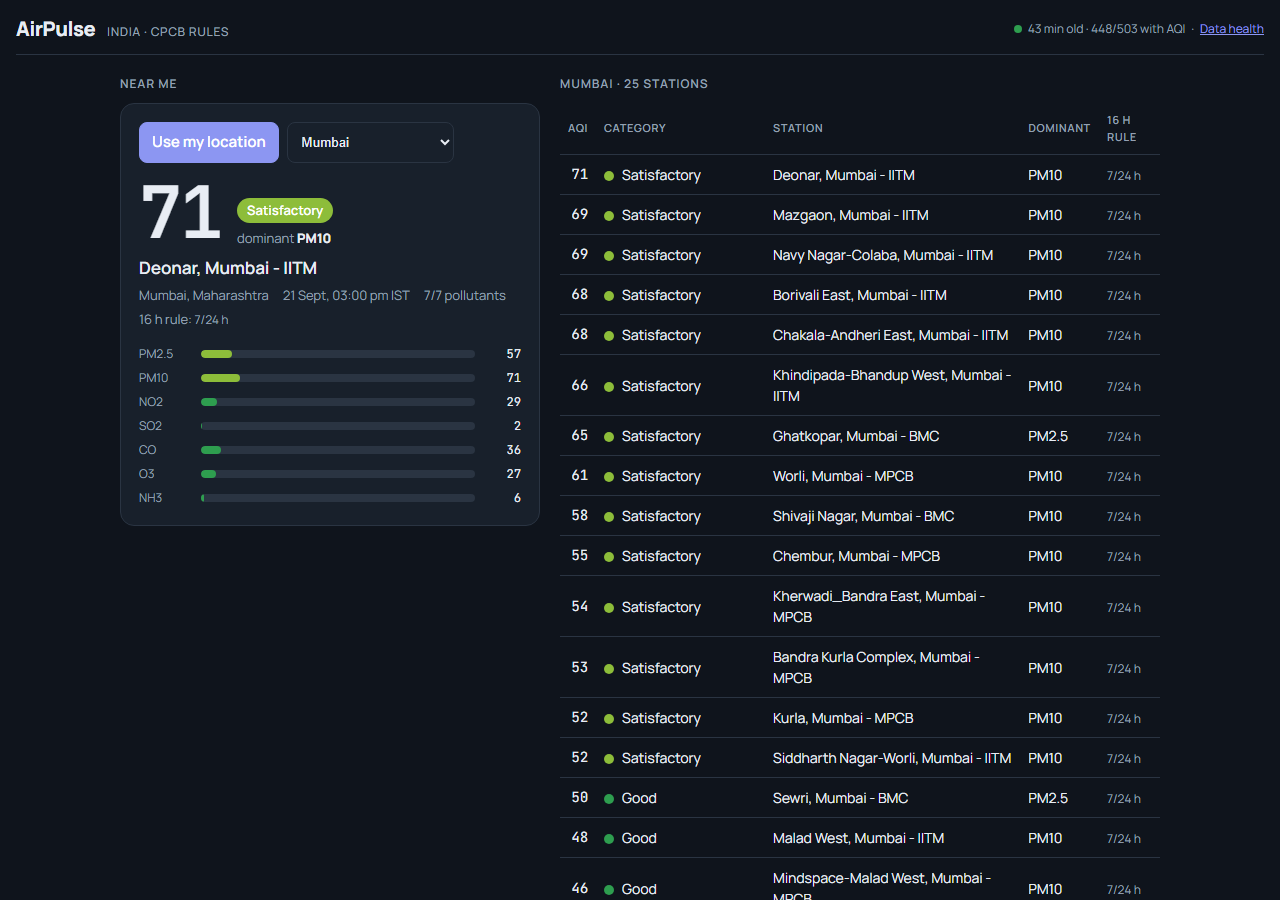
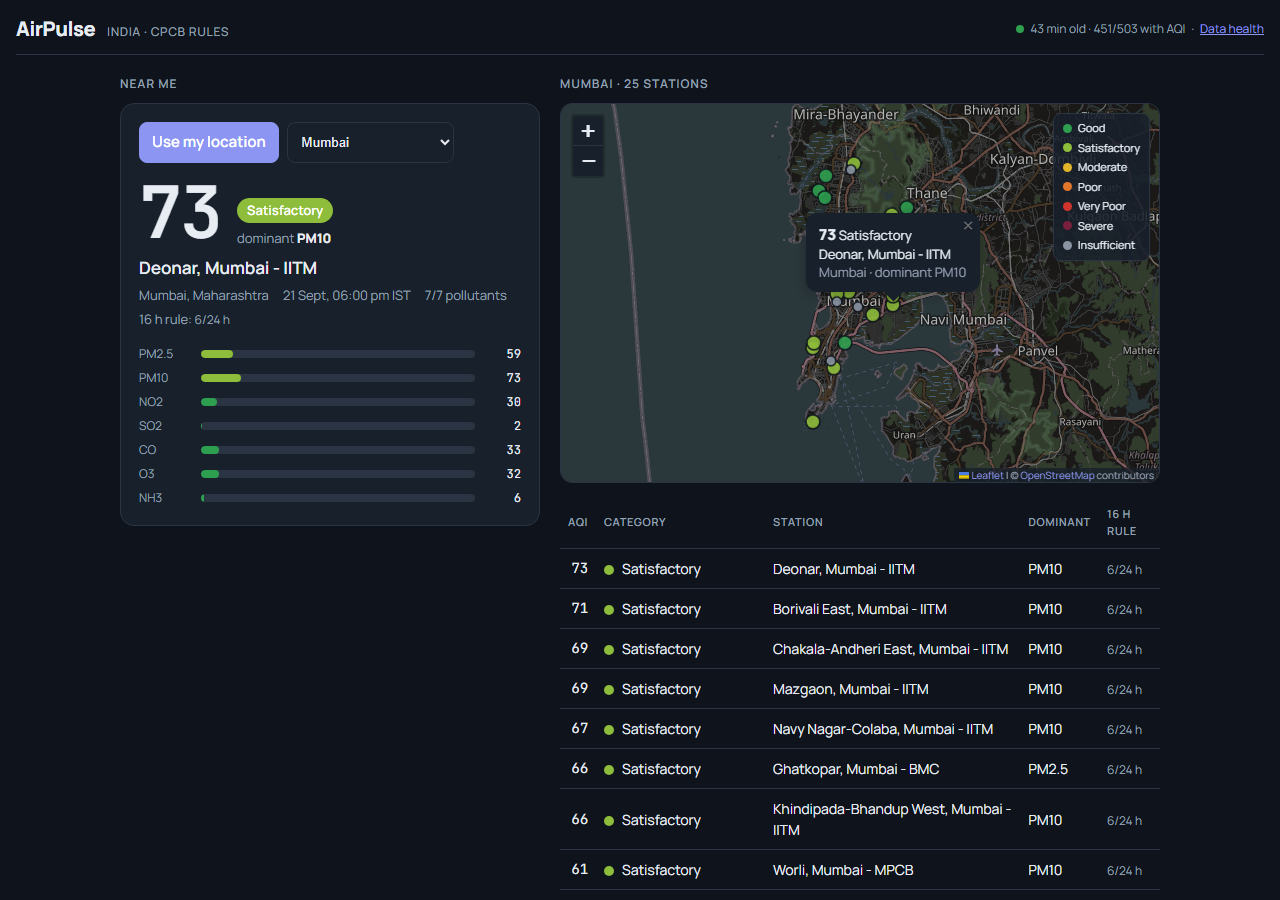
Dashboard: Leaflet station map coloured by AQI category, synced with city, near-me and table

diff --git a/api/static/index.html b/api/static/index.html
@@ -9,6 +9,8 @@
 <meta name="theme-color" content="#1b2433">
 <link rel="preconnect" href="https://fonts.googleapis.com">
 <link rel="stylesheet" href="https://fonts.googleapis.com/css2?family=Manrope:wght@400;500;600;800&family=JetBrains+Mono:wght@400;600&display=swap">
+<link rel="stylesheet" href="https://cdnjs.cloudflare.com/ajax/libs/leaflet/1.9.4/leaflet.min.css">
+<script src="https://cdnjs.cloudflare.com/ajax/libs/leaflet/1.9.4/leaflet.min.js"></script>
 <style>
   :root {
     --bg: #f3f5f8;         --surface: #ffffff;    --line: #d9dfe8;
@@ -86,6 +88,23 @@
   .others div { display: flex; justify-content: space-between; gap: 10px; }
   .others span:last-child { color: var(--muted); white-space: nowrap; }
 
+  /* --- map --- */
+  #map { height: 300px; border: 1px solid var(--line); border-radius: 12px; margin-bottom: 14px; background: var(--surface); }
+  @media (min-width: 860px) { #map { height: 380px; } }
+  .leaflet-container { font: inherit; }
+  /* OSM only ships a light style; invert it for dark mode and desaturate so markers stay the loudest colour */
+  .tiles-dark { filter: invert(1) hue-rotate(180deg) brightness(0.85) contrast(0.9) saturate(0.4); }
+  .leaflet-popup-content-wrapper, .leaflet-popup-tip { background: var(--surface); color: var(--ink); box-shadow: 0 2px 12px rgba(0,0,0,.25); }
+  .leaflet-popup-content { margin: 10px 12px; font-size: 13px; line-height: 1.4; }
+  .leaflet-popup-content b { font-size: 15px; }
+  .leaflet-control-attribution { font-size: 10px; background: color-mix(in srgb, var(--surface) 80%, transparent) !important; color: var(--muted) !important; }
+  .leaflet-control-attribution a { color: var(--accent); }
+  .leaflet-bar a { background: var(--surface); color: var(--ink); border-bottom-color: var(--line); }
+  .maplegend { position: absolute; z-index: 500; right: 10px; top: 10px; background: color-mix(in srgb, var(--surface) 88%, transparent); border: 1px solid var(--line); border-radius: 8px; padding: 6px 9px; font-size: 11px; display: grid; gap: 3px; }
+  .maplegend span { display: inline-flex; align-items: center; gap: 6px; }
+  .maplegend i { width: 9px; height: 9px; border-radius: 50%; display: inline-block; }
+  .mapwrap { position: relative; }
+
   /* --- city table --- */
   .tablewrap { overflow-x: auto; }
   table { width: 100%; border-collapse: collapse; font-size: 14px; }
@@ -129,6 +148,15 @@
 
   <section>
     <h2 id="citytitle">Stations</h2>
+    <div class="mapwrap">
+      <div id="map" role="img" aria-label="Map of monitoring stations coloured by AQI category"></div>
+      <div class="maplegend" aria-hidden="true">
+        <span><i style="background:var(--good)"></i>Good</span><span><i style="background:var(--satisfactory)"></i>Satisfactory</span>
+        <span><i style="background:var(--moderate)"></i>Moderate</span><span><i style="background:var(--poor)"></i>Poor</span>
+        <span><i style="background:var(--verypoor)"></i>Very Poor</span><span><i style="background:var(--severe)"></i>Severe</span>
+        <span><i style="background:var(--none)"></i>Insufficient</span>
+      </div>
+    </div>
     <div class="tablewrap">
       <table>
         <thead><tr><th class="num">AQI</th><th>Category</th><th>Station</th><th class="dom">Dominant</th><th>16 h rule</th></tr></thead>
@@ -158,6 +186,37 @@ const $ = id => document.getElementById(id);
 const api = async p => { const r = await fetch(p); if (!r.ok) throw new Error((await r.json()).detail || r.statusText); return r.json(); };
 
 let all = [];
+
+// ---- map (Leaflet + CARTO basemap, themed) ----
+const dark = matchMedia('(prefers-color-scheme: dark)').matches;
+const map = L.map('map', { zoomControl: true, attributionControl: true }).setView([21.5, 79], 5);
+L.tileLayer('https://tile.openstreetmap.org/{z}/{x}/{y}.png', {
+  maxZoom: 18, className: dark ? 'tiles-dark' : '',
+  attribution: '&copy; <a href="https://www.openstreetmap.org/copyright">OpenStreetMap</a> contributors'
+}).addTo(map);
+const markers = L.layerGroup().addTo(map);
+let youMarker = null, byStation = new Map();
+const css = v => getComputedStyle(document.documentElement).getPropertyValue(v).trim();
+const catColor = s => s.aqi == null ? css('--none') : { Good: '--good', Satisfactory: '--satisfactory', Moderate: '--moderate', Poor: '--poor', 'Very Poor': '--verypoor', Severe: '--severe' }[s.category] ? css({ Good: '--good', Satisfactory: '--satisfactory', Moderate: '--moderate', Poor: '--poor', 'Very Poor': '--verypoor', Severe: '--severe' }[s.category]) : css('--none');
+
+function renderMarkers(list) {
+  markers.clearLayers(); byStation.clear();
+  for (const s of list) {
+    if (s.latitude == null || s.longitude == null) continue;
+    const m = L.circleMarker([s.latitude, s.longitude], {
+      radius: s.aqi == null ? 5 : 7, color: dark ? '#0f141c' : '#ffffff', weight: 1.5,
+      fillColor: catColor(s), fillOpacity: 0.9,
+    }).bindPopup(`<b>${s.aqi ?? '—'}</b> ${esc(s.category ?? s.insufficient_reason ?? '')}<br>${esc(s.station)}<br><span style="color:var(--muted)">${esc(s.city)} · ${s.dominant ? 'dominant ' + esc(s.dominant) : ''}</span>`);
+    m.on('click', () => showStation(s));
+    m.addTo(markers); byStation.set(s.station, m);
+  }
+}
+function fitTo(list, pad = 0.15) {
+  const pts = list.filter(s => s.latitude != null).map(s => [s.latitude, s.longitude]);
+  if (!pts.length) return;
+  if (pts.length === 1) map.setView(pts[0], 12);
+  else map.fitBounds(L.latLngBounds(pts).pad(pad), { maxZoom: 13 });
+}
 
 function rule(s) {
   if (s.meets_16h_rule === true)  return `<span class="rule ok">meets (${s.hours_reported}/24)</span>`;
@@ -189,6 +248,7 @@ function renderReading(s) {
 
 function showStation(s, others = []) {
   $('nearerr').hidden = true;
+  const m = byStation.get(s.station); if (m) m.openPopup();
   const more = others.length ? `<div class="others">${others.map(o =>
     `<div><span>${esc(o.station)}</span><span class="mono">${o.aqi ?? '—'} · ${o.distance_km} km</span></div>`).join('')}</div>` : '';
   $('near').innerHTML = renderReading(s) + more;
@@ -206,6 +266,7 @@ function renderTable(rows, title) {
 function selectCity(city) {
   const rows = all.filter(s => s.city === city);
   renderTable(rows, `${city} · ${rows.length} stations`);
+  renderMarkers(rows); fitTo(rows);
   const best = rows.find(s => s.aqi != null) || rows[0];
   if (best) showStation(best);
   try { localStorage.setItem('airpulse.city', city); } catch {}
@@ -218,10 +279,15 @@ async function locate() {
     const { latitude: lat, longitude: lon } = pos.coords;
     const d = await api(`/api/nearest?lat=${lat.toFixed(4)}&lon=${lon.toFixed(4)}&limit=4`);
     if (!d.stations.length) throw new Error('No station has reported in the last 3 hours.');
-    showStation(d.stations[0], d.stations.slice(1));
     $('city').value = d.stations[0].city;
     const rows = all.filter(s => s.city === d.stations[0].city);
     renderTable(rows, `${d.stations[0].city} · ${rows.length} stations`);
+    renderMarkers(rows);
+    if (youMarker) youMarker.remove();
+    youMarker = L.circleMarker([lat, lon], { radius: 8, color: css('--accent'), weight: 3, fillColor: css('--accent'), fillOpacity: 0.35 })
+      .bindTooltip('You', { permanent: true, direction: 'top', offset: [0, -8] }).addTo(map);
+    fitTo([{ latitude: lat, longitude: lon }, ...d.stations], 0.3);
+    showStation(d.stations[0], d.stations.slice(1));
   } catch (e) {
     $('nearerr').textContent = e.code === 1 ? 'Location permission denied — pick a city instead.' : (e.message || 'Could not get your location.');
     $('nearerr').hidden = false;
